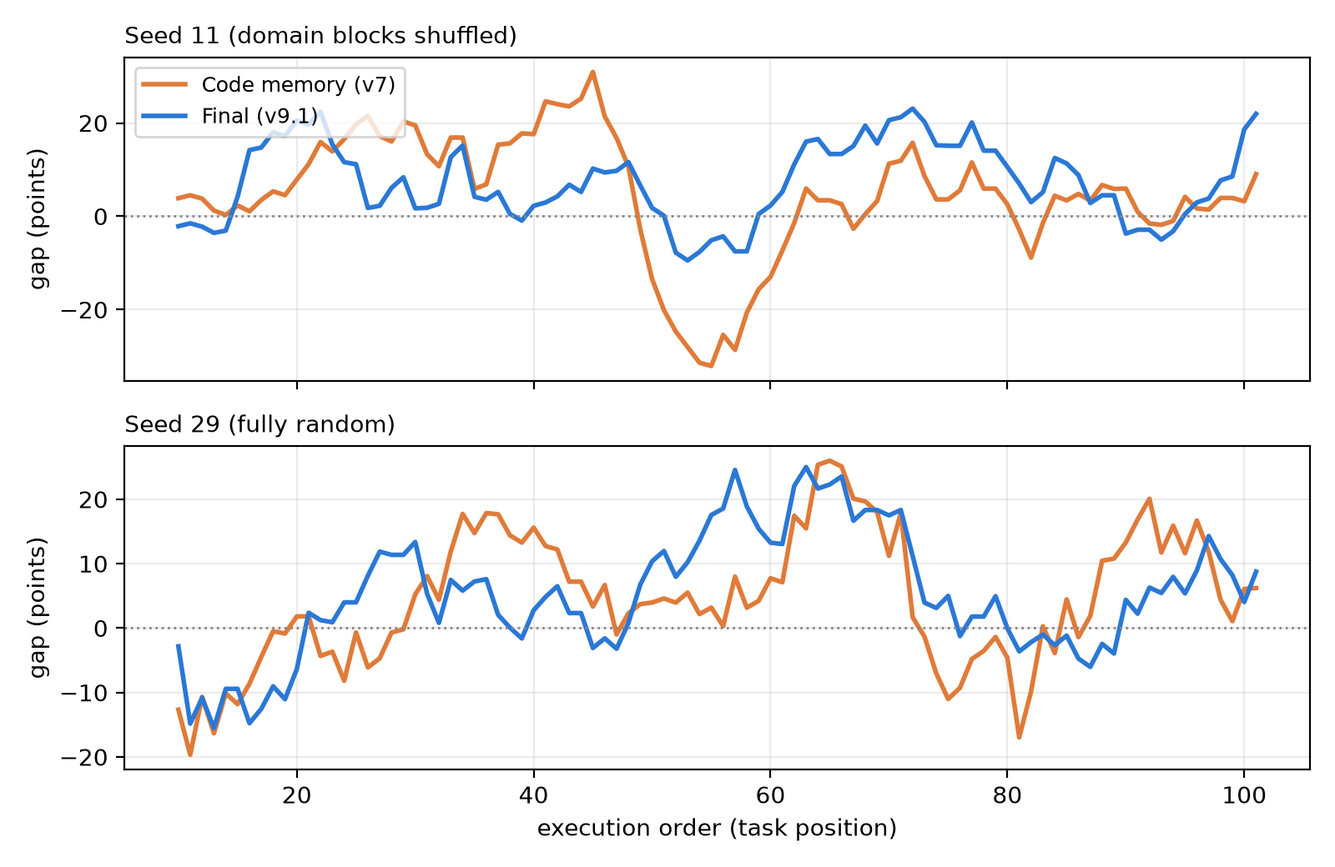
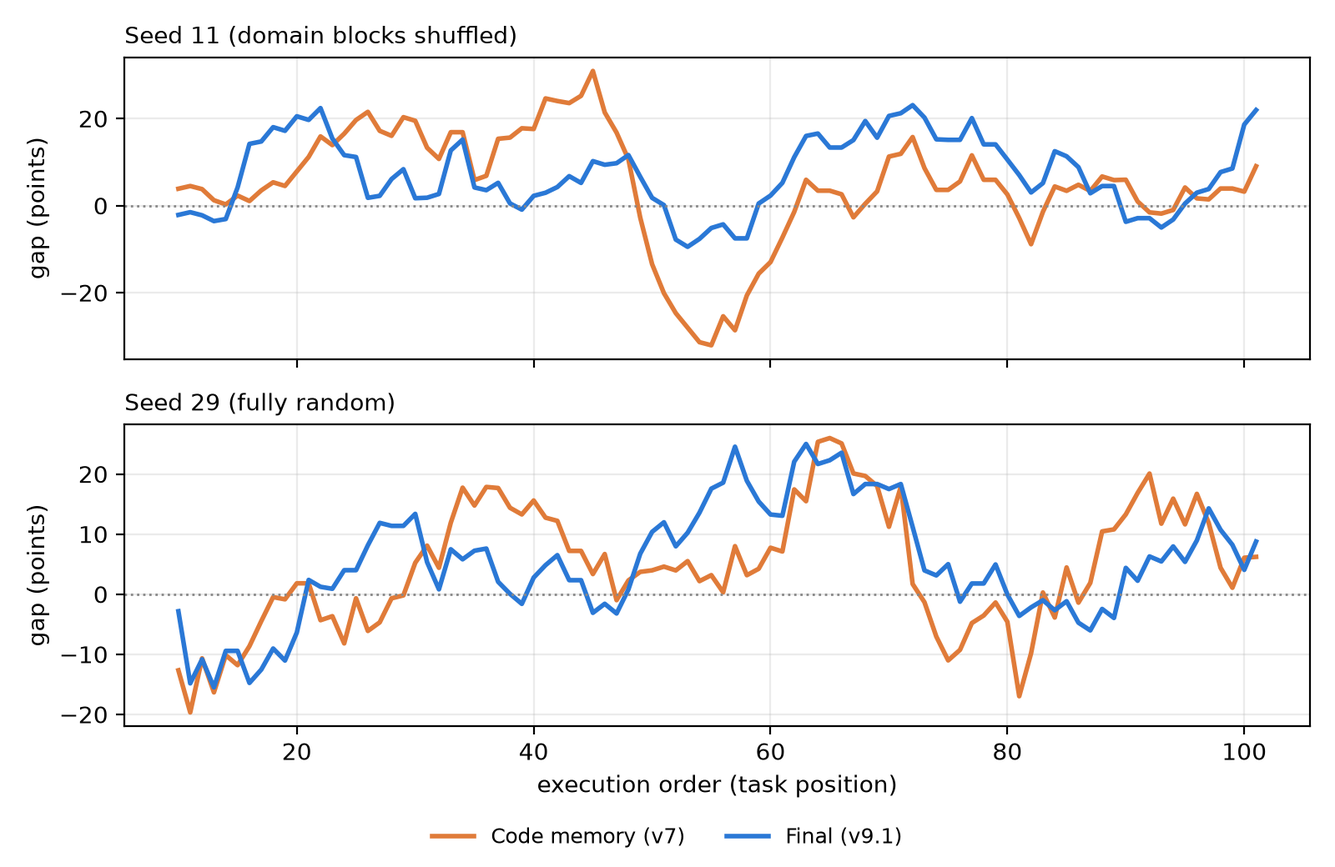
Thesis revision: problem formulation + algorithm, families figure moved to Ch3, 12 verified references with URLs, repo link, threats to validity, noise floor, shorter abstract, layout fixes

diff --git a/docs/thesis/sections/3-Setup.tex b/docs/thesis/sections/3-Setup.tex
@@ -28,18 +28,20 @@ We use all 101 WebGen-Bench tasks. They come from 20 application domains of uneq
 \label{sec:walkthrough}
 This section follows one task through the unmodified system, so that it is clear what the memory later changes. Task 000006 asks for a solar dashboard:
 
+\noindent\begin{minipage}{\linewidth}
 \begin{lstlisting}
 Please implement a solar dashboard to display real-time and historical solar
 data. The dashboard should have functionalities for real-time data display,
 historical data query, and chart analysis. [...] Configure the background color
 to honeydew, with components using dark olive green.
 \end{lstlisting}
+\end{minipage}
 
 \paragraph{Generation.} Under No Memory this text is the entire prompt. Bolt.diy is an open-source browser-based coding agent: it opens a starter project (for Vue, a Vite + Vue + TypeScript template whose \texttt{package.json} declares only \texttt{vue}), sends the requirement to the generator, and writes every file of the model's reply into the project. It then installs the dependencies and starts the development server. The generator has one reply; nothing in the official protocol inspects or repairs the code.
 
 \paragraph{Functional testing.} Each task comes with hidden test cases, on average six. For task 000006 the first two are ``Verify the display of real-time solar power generation data'' and ``Test the display of real-time power consumption data'', each with an expected result. A WebVoyager-style \gls{gui} agent~\cite{he2024webvoyager} receives one test case at a time. At each step it sees a screenshot in which every interactive element carries a numbered box (\Cref{fig:walkthrough}b), chooses an action such as clicking element 1 or typing into a field, and finally answers YES, PARTIAL or NO. The agent has a fixed step budget; if it runs out before reaching the target, the case counts as failed.
 
-\paragraph{Appearance grading.} A vision model grades a full-page screenshot from 1 to 5 for layout, colour and completeness.
+\paragraph{Appearance grading.} A vision model grades a full-page screenshot from 1 to 5 for layout, colour and completeness. Both the tester and the grader are models acting as judges, which are known to have biases~\cite{zheng2023judge}; we therefore keep their raw transcripts and, in \Cref{sec:threats}, check a sample of their verdicts by hand.
 
 \Cref{fig:walkthrough} shows what the tester saw for this task in two runs. Under No Memory the model imported the chart library \texttt{vue-chartjs}, which the template does not declare; Vite cannot resolve the import, the page shows only the error overlay, and all test cases fail. With the final memory the generator built the three requested views without the undeclared package, and all test cases passed.
 
@@ -58,7 +60,7 @@ to honeydew, with components using dark olive green.
 \end{figure}
 
 \section{Models and Roles}
-All models are self-hosted on the university CS ML cluster (two NVIDIA H200 GPUs per job, served with vLLM). No commercial \gls{llm} service is called. \Cref{tab:roles} lists the roles.
+All models are self-hosted on the university CS ML cluster (two NVIDIA H200 GPUs per job, served with vLLM~\cite{kwon2023vllm}). No commercial \gls{llm} service is called. \Cref{tab:roles} lists the roles.
 
 \begin{table}[ht]
 \centering
@@ -69,15 +71,15 @@ All models are self-hosted on the university CS ML cluster (two NVIDIA H200 GPUs
 Role & Model \\
 \midrule
 Generator & WebGen-LM-7B (BF16), Bolt.diy scaffold, single generation \\
-Functional tester & Qwen2.5-VL-32B-Instruct (WebVoyager-style \gls{gui} agent) \\
+Functional tester & Qwen2.5-VL-32B-Instruct~\cite{bai2025qwenvl} (WebVoyager-style \gls{gui} agent) \\
 Appearance grader & Qwen2.5-VL-32B-Instruct (paper: GPT-4o) \\
 Memory / reflection & Qwen2.5-VL-72B-Instruct-AWQ \\
-Embeddings & bge-m3 \\
+Embeddings & bge-m3~\cite{chen2024bgem3} \\
 \bottomrule
 \end{tabularx}
 \end{table}
 
-\paragraph{The generator.} WebGen-LM is a family of website-generation models (7B, 14B and 32B) released with WebGen-Bench~\cite{lu2025webgenbench}. Each is Qwen2.5-Coder-Instruct of the same size, fine-tuned with supervised learning only. The training data come from WebGen-Instruct, 6,667 website instructions decontaminated against the benchmark: the authors ran DeepSeek-V3 in Bolt.diy on 2,000 of them and kept the 600 trajectories whose websites scored at least 3 for appearance. WebGen-LM-7B therefore already knows the Bolt.diy output format, which makes it the natural small baseline for this benchmark: it is not a general model prompted to build websites, but a model distilled for exactly this scaffold.
+\paragraph{The generator.} WebGen-LM is a family of website-generation models (7B, 14B and 32B) released with WebGen-Bench~\cite{lu2025webgenbench}. Each is Qwen2.5-Coder-Instruct~\cite{hui2024qwencoder} of the same size, fine-tuned with supervised learning only. The training data come from WebGen-Instruct, 6,667 website instructions decontaminated against the benchmark: the authors ran DeepSeek-V3 in Bolt.diy on 2,000 of them and kept the 600 trajectories whose websites scored at least 3 for appearance. WebGen-LM-7B therefore already knows the Bolt.diy output format, which makes it the natural small baseline for this benchmark: it is not a general model prompted to build websites, but a model distilled for exactly this scaffold.
 
 The memory model is deliberately different from the evaluator, so that reflection cannot copy the evaluator's grading behaviour. vLLM applies the model repository's generation configuration by default; WebGen-LM-7B ships with a repetition penalty that Bolt.diy never sends, so we disable it for the generator to match the paper's setting.
 
@@ -86,18 +88,38 @@ For each task with $n$ test cases, of which $p$ pass and $q$ are partial,
 \begin{equation}
 \text{accuracy} = \frac{p + 0.5\,q}{n}.
 \end{equation}
-We report accuracy over all test cases, the mean appearance score (1--5), and the number of \emph{zero-score} tasks. Because test cases within a task are not independent, comparisons are paired by task rather than by test case.
+We report accuracy over all test cases, the mean appearance score (1--5), and the number of \emph{zero-score} tasks. Because test cases within a task are not independent, comparisons are paired by task rather than by test case: for two arms we report the mean per-task difference in accuracy with a 95\% percentile bootstrap \gls{ci} obtained by resampling tasks~\cite{efron1993bootstrap}, together with the numbers of tasks won, lost and tied.
 
 \section{Experimental Design}
 \label{sec:design}
+The memory designs we built fall into three families, shown in \Cref{fig:families} and described in \Cref{chap:method}. \emph{Text memory} (v1--v4) stores lessons written in natural language and adds them to the prompt; its last version, v4, adds the requirement checklist. \emph{Code memory} (v5--v7) keeps the checklist and adds a code pool of examples taken from the chain's own working websites. The \emph{final} family (v8--v9.1) changes only how the code pool selects and updates its examples. One version of each family was run on all 101 tasks, v4, v7 and v9.1, and in the rest of this dissertation the three names refer to these runs. Versions that were stopped part-way or never run on all tasks are described only in the design history (\Cref{sec:history}).
+
+\begin{figure}[ht]
+\centering
+\begin{tikzpicture}[node distance=5mm and 7mm, every node/.style={font=\small},
+  fam/.style={draw, rounded corners, align=center, text width=3.3cm, minimum height=16mm, inner sep=4pt},
+  base/.style={draw, rounded corners, align=center, text width=1.9cm, minimum height=16mm},
+  why/.style={font=\scriptsize\itshape, align=center, text width=2.2cm}, >=stealth]
+\node[base] (nm) {No Memory\\28.5\%};
+\node[fam, right=14mm of nm] (txt) {\textbf{Text memory}\\v1--v4\\lessons as text\\+ checklist (v4)\\30.9\%};
+\node[fam, draw=orange!80!black, right=14mm of txt] (code) {\textbf{Code memory}\\v5--v7\\+ code pool of\\verified fragments\\40.0\%};
+\node[fam, draw=blue!70!black, right=14mm of code] (fin) {\textbf{Final}\\v8--v9.1\\safer fragments,\\versioned entries\\\todo{v9.1}};
+\draw[->] (nm) -- (txt);
+\draw[->] (txt) -- node[why, above=1mm]{text not\\followed} (code);
+\draw[->] (code) -- node[why, above=1mm]{whole-file\\example\\$\rightarrow$ scaffold} (fin);
+\end{tikzpicture}
+\caption{The three families of memory. Each arrow names the failure that led to the next family. Accuracy is on the manifest order (101 tasks, one run).}
+\label{fig:families}
+\end{figure}
+
 \Cref{tab:design} lists every arm, the task orders in which it was run and the question it answers. All arms use WebGen-LM-7B with Bolt.diy under the official protocol, cover all 101 tasks and start from an empty memory; each arm is run once per order. The task orders are defined in \Cref{sec:order-design}.
 
 \begin{table}[ht]
 \centering
-\caption{Experimental design. Memory content is what is added to the generator's prompt; version numbers refer to the design history in \Cref{sec:history}.}
+\caption{Experimental design. Memory content is what is added to the generator's prompt; the families are those of \Cref{fig:families}.}
 \label{tab:design}
 \small
-\begin{tabularx}{\textwidth}{>{\raggedright}>{\raggedright\arraybackslash}p{2.9cm}>{\raggedright}X>{\raggedright}>{\raggedright\arraybackslash}p{2.6cm}>{\raggedright\arraybackslash}X}
+\begin{tabularx}{\textwidth}{>{\raggedright\arraybackslash}p{2.9cm}X>{\raggedright\arraybackslash}p{2.6cm}>{\raggedright\arraybackslash}X}
 \toprule
 Arm & Memory content & Task orders & Question \\
 \midrule
@@ -138,6 +160,6 @@ GPU 1 & Qwen2.5-VL-72B-Instruct-AWQ (memory) & 113 \\
 \end{tabular}
 \end{table}
 
-\paragraph{Code and data availability.} The code, configuration files and the archived run records (prompts, injected memory, scores and memory databases of every run) are kept in a private repository and are available from the author on request; they will be made public after examination.
+\paragraph{Code and data availability.} The code, configuration files and the archived run records (prompts, injected memory, scores and memory databases of every run) are publicly available at \url{https://github.com/qiaopan/WebGen-Bench}; the run records are in \texttt{archive/phase2-webgen-2026-10/}.
 
 The main constraint is compute. A task takes about twelve minutes with memory and six without, so one 101-task run takes about a day on our two GPUs. As in the original benchmark, each configuration is therefore run once per task order. We compensate by pairing comparisons by task, by repeating the No Memory baseline in three orders to measure its run-to-run variation, and by repeating the memory method across orders rather than within one.

diff --git a/docs/thesis/sections/2-Background.tex b/docs/thesis/sections/2-Background.tex
@@ -5,9 +5,9 @@ This chapter places the work in four bodies of literature. \Cref{sec:bg-webgen} 
 
 \section{Website Generation Benchmarks}
 \label{sec:bg-webgen}
-Code-generation benchmarks have moved from single functions towards whole applications. A website is a demanding target: it combines several files, a build configuration, a user interface and interaction logic, and a request in natural language usually lists several pages and features at once. Evaluating such output by reading the code is unreliable, because a project can look complete and still fail to start, or start and render a blank page. Recent benchmarks therefore start the generated project and test it through its interface.
+Code-generation benchmarks have moved from single functions towards whole applications. A website is a demanding target: it combines several files, a build configuration, a user interface and interaction logic, and a request in natural language usually lists several pages and features at once. Evaluating such output by reading the code is unreliable, because a project can look complete and still fail to start, or start and render a blank page. Recent benchmarks therefore start the generated project and test it through its interface. Related benchmarks test agents that operate existing websites, such as Mind2Web and WebArena~\cite{deng2023mind2web,zhou2024webarena}, generate a single page from a screenshot and compare it visually, as in Design2Code~\cite{si2024design2code}, or change a code repository and run its tests, as in SWE-bench~\cite{jimenez2024swebench}.
 
-WebGen-Bench~\cite{lu2025webgenbench} contains 101 website requirements from 20 application domains, each paired with a set of functional test cases (647 in total). A generated project is installed and started, and a \gls{gui} agent based on WebVoyager~\cite{he2024webvoyager} executes each test case and returns \emph{Pass}, \emph{Partial} or \emph{Fail}. A separate \gls{vlm} grades the appearance of the landing page from 1 to 5. The authors also release WebGen-LM, generators fine-tuned on agent trajectories; with the Bolt.diy scaffold, WebGen-LM-7B reaches 28.4\% accuracy and an appearance score of 2.5. Larger general models such as Qwen2.5-Coder-32B score lower (9.5\%), which makes the 7B model a good subject: it is neither at the floor nor at the ceiling of the benchmark.
+WebGen-Bench~\cite{lu2025webgenbench} contains 101 website requirements from 20 application domains, each paired with a set of functional test cases (647 in total). A generated project is installed and started, and a \gls{gui} agent based on WebVoyager~\cite{he2024webvoyager} executes each test case and returns \emph{Pass}, \emph{Partial} or \emph{Fail}. A separate \gls{vlm} grades the appearance of the landing page from 1 to 5. The authors also release WebGen-LM, generators fine-tuned from Qwen2.5-Coder~\cite{hui2024qwencoder} on agent trajectories; with the Bolt.diy scaffold, WebGen-LM-7B reaches 28.4\% accuracy and an appearance score of 2.5. Larger general models such as Qwen2.5-Coder-32B score lower (9.5\%), which makes the 7B model a good subject: it is neither at the floor nor at the ceiling of the benchmark.
 
 WebGen-Bench evaluates generators inside agent scaffolds rather than as bare models. In the Bolt.diy scaffold used here, the model writes the project as a sequence of file actions in its reply, the scaffold applies them to a template project, installs dependencies and starts a development server. The official protocol gives the generator a single attempt: there is no build check and no repair loop, and a project that does not start receives zero for all of its test cases. This is important for our study, because it means memory cannot help by fixing errors after they happen; it can only change what the generator writes in the first place.
 
@@ -19,7 +19,7 @@ WebGen-Bench is a static benchmark. It does not define any interaction between t
 \label{sec:bg-memory}
 An agent memory has three parts: what is written after a task (raw trajectories, insights, procedures or code), how it is maintained (added, merged, updated or forgotten), and how it is retrieved and presented to the model for a new task. Most work varies the first two and assumes the consuming model can use whatever is retrieved. The paragraphs below follow the same division and end with the question that matters most here: which form of memory transfers to a new task.
 
-\paragraph{Experience and insight memory.} ExpeL~\cite{zhao2024expel} lets an agent collect trajectories, extract natural-language insights, and maintain them with add, edit, upvote and downvote operations. ReasoningBank~\cite{reasoningbank2025} distils reusable reasoning strategies from both successful and failed trajectories. Generative Agents~\cite{park2023generative} rank memories by recency, importance and relevance.
+\paragraph{Experience and insight memory.} ExpeL~\cite{zhao2024expel} lets an agent collect trajectories, extract natural-language insights, and maintain them with add, edit, upvote and downvote operations. ReasoningBank~\cite{reasoningbank2025} distils reusable reasoning strategies from both successful and failed trajectories. Generative Agents~\cite{park2023generative} rank memories by recency, importance and relevance. Reflexion~\cite{shinn2023reflexion} stores verbal self-reflections after a failed attempt, but reuses them on retries of the same task rather than on new tasks.
 
 \paragraph{Skill and code memory.} Voyager~\cite{wang2023voyager} stores executable skills as code with a description and retrieves them by description. Agent Workflow Memory~\cite{wang2025awm} stores reusable workflows. Metis~\cite{dai2026metis} combines textual memory with code tools: plans that recur are promoted to validated, callable tools that the agent executes. Its controlled study with a GPT-4o executor is directly relevant to this work: when memory is built only from earlier tasks (streaming), code memory falls to 53.3\% task completion while text memory reaches 73.3\%, and the authors describe code as efficient but brittle under task variation. Our code memory is of a different kind: fragments placed in the prompt for the generator to imitate, not tools that are executed.
 
@@ -29,7 +29,7 @@ An agent memory has three parts: what is written after a task (raw trajectories,
 
 \paragraph{Cross-task reuse on WebGen-Bench.} Super Library Agent~\cite{sung2026superlibrary} also generates WebGen-Bench applications in sequence, maintaining a shared library of reusable components. Its goal is maintainability without loss of functionality: on 24 tasks in three suites drawn from single topical clusters, with a strong backbone, accuracy changes from 76.04\% to 77.21\%, a difference that is not statistically significant, while code size and token use fall. It does not store lessons from failures and does not vary task order; the authors note that single-topic suites are a favourable setting for reuse. We study memory of failures and successes for correctness, with a small generator, on all 101 tasks under the official protocol, and treat task order as a variable.
 
-\paragraph{Memory maintenance.} Mem0~\cite{chhikara2025mem0} decides at write time whether a new memory should be added, should update an old one, or is redundant. Memento~\cite{zhou2025memento} learns the utility of stored cases from their outcomes. Our hygiene component borrows these ideas: deduplication at storage time and a utility score for each memory.
+\paragraph{Memory maintenance.} Mem0~\cite{chhikara2025mem0} decides at write time whether a new memory should be added, should update an old one, or is redundant. Memento~\cite{zhou2025memento} learns the utility of stored cases from their outcomes. MemGPT~\cite{packer2023memgpt} manages several tiers of memory for long interactions. Our hygiene component borrows these ideas: deduplication at storage time and a utility score for each memory.
 
 \paragraph{Task order in continual agent evaluation.} Benchmarks for agents that learn across tasks report that the order and composition of the task stream affect results. Evo-Memory~\cite{wei2025evomemory} finds that baselines vary substantially between easy-to-hard and hard-to-easy sequences, and AgentCL~\cite{shu2026agentcl} shows that memory methods can only be distinguished on streams that expose opportunities for reuse. We therefore compare orders in which tasks of the same domain are adjacent with orders in which they are mixed (\Cref{sec:order-design}).
 

diff --git a/docs/thesis/sections/4-Method.tex b/docs/thesis/sections/4-Method.tex
@@ -1,6 +1,31 @@
 \chapter{Method}
 \label{chap:method}
 
+\section{Problem Formulation}
+\label{sec:formulation}
+A run processes the tasks $t_1,\dots,t_n$ ($n=101$) in a fixed order. Task $t_i$ has a requirement $r_i$ and hidden test cases $c_{i,1},\dots,c_{i,m_i}$. A generator $G$ with fixed weights maps a prompt $x_i$ to a project $y_i=G(x_i)$, which the evaluator $E$ scores as $a_i=E(y_i, c_{i,\cdot})\in[0,1]$ with the accuracy defined in \Cref{chap:setup}. Under No Memory, $x_i=r_i$. With memory, the prompt is
+\begin{equation}
+x_i = r_i \oplus f(r_i, M_{i-1}), \qquad M_i = u\bigl(M_{i-1}, r_i, y_i, \tau_i, a_i\bigr),
+\end{equation}
+where $M_0=\emptyset$, $f$ selects and formats memory for the current requirement, $\oplus$ appends text after the requirement, $\tau_i$ is the evaluator transcript, and $u$ reflects on the finished task and updates the memory. Two constraints make the comparison fair: $f$ only reads $M_{i-1}$, which is built from earlier tasks, so the hidden evaluation of $t_i$ never reaches its own prompt; and $G$, $E$ and the protocol are identical across arms. The question is whether the mean of $a_i$ is higher with memory than with $x_i=r_i$, and which design of $f$ and $u$ achieves it. \Cref{alg:pipeline} gives the final design.
+
+\begin{algorithm}[ht]
+\caption{Cross-task memory for one run (final version).}
+\label{alg:pipeline}
+\begin{algorithmic}[1]
+\State $M \gets \emptyset$
+\For{$i = 1,\dots,n$}
+  \State $L \gets \textsc{Checklist}(r_i)$ \Comment{memory model splits the requirement}
+  \State attach to $L$ the lessons in $M$ judged to apply to $r_i$
+  \State $P \gets$ up to three code-pool fragments whose trigger holds
+  \State $x_i \gets r_i \oplus L \oplus P$; \quad $y_i \gets G(x_i)$; \quad $a_i \gets E(y_i)$
+  \State reflect on $(y_i,\tau_i,a_i)$; add new lessons to $M$ after deduplication
+  \State record code facts of $y_i$; create or version code-pool entries from earlier sites with $a \ge 0.5$
+\EndFor
+\end{algorithmic}
+\end{algorithm}
+
+
 \section{Starting Point: Why No Memory Fails}
 \label{sec:nm-failures}
 We began by inspecting the code that No Memory actually produced, rather than its scores. Two findings shaped everything that followed.
@@ -11,27 +36,9 @@ We began by inspecting the code that No Memory actually produced, rather than it
 
 \section{Design History}
 \label{sec:history}
-The design went through three families of memory, shown in \Cref{fig:families}. \emph{Text memory} (v1--v4) stores lessons written in natural language and adds them to the prompt; its last version, v4, adds the requirement checklist. \emph{Code memory} (v5--v7) keeps the checklist and adds a code pool of examples taken from the chain's own working websites. The \emph{final} family (v8--v9.1) changes only how the code pool selects and updates its examples. One version of each family was run on all 101 tasks, v4, v7 and v9.1, and in the rest of this dissertation the three names refer to these runs.
+The three families of \Cref{fig:families} were reached through the attempts listed in \Cref{tab:history}. \Cref{tab:design} in \Cref{chap:setup} lists what was run in the final experiments; the table below lists how the design got there, so the two tables describe different things: the arms compared, and the history of the method.
 
-\begin{figure}[ht]
-\centering
-\begin{tikzpicture}[node distance=5mm and 7mm, every node/.style={font=\small},
-  fam/.style={draw, rounded corners, align=center, text width=3.3cm, minimum height=16mm, inner sep=4pt},
-  base/.style={draw, rounded corners, align=center, text width=1.9cm, minimum height=16mm},
-  why/.style={font=\scriptsize\itshape, align=center, text width=2.2cm}, >=stealth]
-\node[base] (nm) {No Memory\\28.5\%};
-\node[fam, right=14mm of nm] (txt) {\textbf{Text memory}\\v1--v4\\lessons as text\\+ checklist (v4)\\30.9\%};
-\node[fam, draw=orange!80!black, right=14mm of txt] (code) {\textbf{Code memory}\\v5--v7\\+ code pool of\\verified fragments\\40.0\%};
-\node[fam, draw=blue!70!black, right=14mm of code] (fin) {\textbf{Final}\\v8--v9.1\\safer fragments,\\versioned entries\\\todo{v9.1}};
-\draw[->] (nm) -- (txt);
-\draw[->] (txt) -- node[why, above=1mm]{text not\\followed} (code);
-\draw[->] (code) -- node[why, above=1mm]{whole-file\\example\\$\rightarrow$ scaffold} (fin);
-\end{tikzpicture}
-\caption{The three families of memory. Each arrow names the failure that led to the next family. Accuracy is on the manifest order (101 tasks, one run).}
-\label{fig:families}
-\end{figure}
-
-\Cref{tab:history} lists every attempt within the families. Each version was motivated by an error analysis of the previous one. Versions are numbered in the order they were built, and every number appears in \Cref{tab:history}: v1 and v2 used the early text-memory design of the first three rows, v5 was a local prototype of the code pool that was never run on all tasks, and v8 and v9 were stopped part-way. Only v4, v7 and v9.1 were run on all 101 tasks; in the rest of this dissertation they are called \emph{text memory}, \emph{code memory} and the \emph{final} version.
+Each version was motivated by an error analysis of the previous one. Versions are numbered in the order they were built, and every number appears in \Cref{tab:history}: v1 and v2 used the early text-memory design of the first three rows, v5 was a local prototype of the code pool that was never run on all tasks, and v8 and v9 were stopped part-way. Only v4, v7 and v9.1 were run on all 101 tasks; in the rest of this dissertation they are called \emph{text memory}, \emph{code memory} and the \emph{final} version.
 
 \begin{table}[ht]
 \centering

diff --git a/docs/thesis/sections/6-Discussion.tex b/docs/thesis/sections/6-Discussion.tex
@@ -9,6 +9,7 @@ This contrasts with findings for strong models. With a GPT-4o executor, Metis fi
 A second observation is that part of the gain is not ``smarter'' code but protection against collapse. In the earliest phase, short prompts made the model return the default scaffold in five of eight tasks, while longer, specific prompts did not. Both effects are real benefits of memory, but they should be described separately.
 
 \section{Limitations and Threats to Validity}
+\label{sec:threats}
 \begin{itemize}
   \item \textbf{Single runs.} WebGen-Bench itself reports single runs without error bars. We go further by repeating No Memory five times to measure run-to-run noise and by repeating Long Memory under four additional orders with paired comparisons, but within each order Long Memory is still a single run, so per-task conclusions remain weak.
   \item \textbf{One generator and one scaffold.} All results are for WebGen-LM-7B with Bolt.diy and a Vue template. Larger generators may follow text well and benefit less from code fragments.
@@ -17,9 +18,9 @@ A second observation is that part of the gain is not ``smarter'' code but protec
   \item \textbf{Code pool as a learned prefix.} Because its triggers are general, the code pool behaves partly like a fixed prompt prefix; the fixed-prefix ablation (\Cref{sec:ablation}) measures how much of the gain this explains.
   \item \textbf{Rare problems are learned late.} A code memory needs a problem to recur before it exists, so learning pays off mainly for frequent problems. In v7 the \texttt{vue-router} and \texttt{v-model} problems each occurred in only two seed-11 tasks, and with two slots the \texttt{v-model} memory was never injected although later tasks failed with that error. v9.1 creates memories for whole-site failures after one occurrence and allows three slots, but a problem seen once can still cost one task, and with other generators more problem types would compete for the slots.
   \item \textbf{Appearance grader.} We grade appearance with Qwen2.5-VL-32B instead of GPT-4o, so appearance scores are compared only between our arms. On tasks where both arms produce a working site, appearance is unchanged (3.25 vs 3.22), so our gains are functional only.
-  \item \textbf{Iterative development on the same benchmark.} The pipeline was designed while observing results on WebGen-Bench tasks. Reflection rules describe methods rather than answers, memory uses only earlier tasks, and the final runs start from an empty memory, but some overfitting of design choices to this benchmark cannot be excluded.
-  \item \textbf{Evaluator noise.} \gls{gui} testers can exhaust their interaction budget or misjudge pages. We keep raw evaluator transcripts and distinguish interaction-budget exhaustion from logic failures.
-  \item \textbf{Memory model stronger than generator.} The 72B memory model is larger than the 7B generator; the results show what a small generator can gain with a stronger teacher, not self-improvement in isolation.
+  \item \textbf{Iterative development on the same benchmark.} This is the most serious threat. Every version was designed after looking at failures on the same 101 tasks on which it is evaluated, so the design is in effect tuned on the test set. Four facts limit, but do not remove, the risk. Reflection rules teach a method of investigation and never a task-specific answer; memory content is learned from earlier tasks only and every run starts empty; the split into the first 30 and the last 71 tasks was fixed before v7 was run; and the final version was confirmed on two shuffled orders that it had not been developed on. A clean estimate would freeze the method on a development subset and report it once on held-out tasks; we leave this to future work (\Cref{chap:conclusion}).
+  \item \textbf{Evaluator noise.} \gls{gui} testers can exhaust their interaction budget or misjudge pages~\cite{zheng2023judge}. We keep raw evaluator transcripts and distinguish interaction-budget exhaustion from logic failures. \todo{After a manual check of 20 sampled test cases (stratified by Yes/Partial/No and by arm), report the agreement between the tester and a human reader here.}
+  \item \textbf{Memory model stronger than generator.} The 72B memory model is larger than the 7B generator, so part of the gain could be the larger model solving the task for the small one. Three observations argue against this reading. The checklist only restates the requirement, and on its own it gives no significant gain (\Cref{tab:ablation}). Every code fragment is copied verbatim from a website that the 7B generator itself built earlier, and code checks reject lines that are not in that file. And the memory model never sees the current task's evaluation. The results therefore show what a small generator gains when a stronger model organises its own past experience, not self-improvement in isolation. \todo{After the fixed-prefix run, state how much of the gain remains without learning.}
 \end{itemize}
 
 \section{Ethical Considerations and Impact}

diff --git a/docs/thesis/dissertation.tex b/docs/thesis/dissertation.tex
@@ -15,6 +15,8 @@
 \usepackage{subcaption}
 \usepackage[inline]{enumitem}
 \usepackage[table,usenames,dvipsnames]{xcolor}
+\usepackage{algorithm}
+\usepackage{algpseudocode}
 \usepackage{tikz}
 \usetikzlibrary{positioning}
 \usepackage{cleveref}
@@ -70,13 +72,13 @@
 
 \frontmatter
 \begin{abstract}
-Large language model (LLM) agents that generate websites solve every task from scratch: what went wrong on one website is forgotten before the next one starts. This dissertation asks whether a \emph{small} generator, the 7-billion-parameter WebGen-LM-7B, can improve across a sequence of WebGen-Bench tasks if it is given a long-term memory built from its own earlier attempts, without changing its weights or the official evaluation protocol.
+Agents that generate websites with large language models solve every task from scratch: what went wrong on one website is forgotten before the next one starts. This dissertation asks whether a \emph{small} generator, WebGen-LM-7B, can improve across a sequence of WebGen-Bench tasks when it is given a long-term memory built from its own earlier attempts, without changing its weights or the official evaluation protocol.
 
-We first reproduce the official No Memory baseline on a self-hosted cluster (28.5\% accuracy on 101 tasks versus 28.4\% reported). An analysis of its failures shows that most zero-score tasks are not hard tasks but blank pages caused by basic code errors, such as importing a package that is not installed, and that the model rarely follows advice written as text. A first text-based memory therefore helps early in the sequence but falls behind No Memory later, as generic advice accumulates in the prompt.
+We first reproduce the official No Memory baseline on a self-hosted cluster (28.5\% accuracy on 101 tasks versus 28.4\% reported). Its failures show that many zero-score tasks are blank pages caused by basic code errors, such as importing a package that is not installed, and that the model rarely follows advice written as text. A text-based memory therefore helps early in the sequence but falls behind No Memory later, as generic advice accumulates.
 
-Code memory keeps a requirement checklist that lists every requested feature and adds a code pool: once a code error recurs, the prompt carries a short verified code fragment taken from the chain's own successful websites. In a single run over all 101 tasks it reaches 40.0\% accuracy against 28.5\% for No Memory (mean paired gain 11.5 points, 95\% CI 6.0--16.9) and reduces zero-score tasks from 30 to 13. An ablation attributes most of the gain to the memory rather than to the checklist (+8.1 points, CI 2.9--13.2). Under shuffled task orders, however, a whole-file example in the code pool made the generator return the untouched starter project. The final version (v9.1) shows only verified lines of such files; it removes these blank sites in both shuffled orders and keeps a gain of 7.4 and 5.5 points over No Memory. \todo{Add v9.1 on the manifest order.} Gains are functional: appearance on sites that work is unchanged.
+Code memory adds a requirement checklist and a code pool: once a code error recurs, the prompt carries a short verified fragment from the chain's own successful websites. In a single run over all 101 tasks it reaches 40.0\% against 28.5\% (paired gain 11.5 points, 95\% CI 6.0--16.9) and cuts zero-score tasks from 30 to 13; an ablation attributes most of the gain to memory rather than to the checklist. Under shuffled task orders, a whole-file example made the generator return the untouched starter project. The final version (v9.1) shows only verified lines of such files; it removes these failures in both shuffled orders and keeps gains of 7.4 and 5.5 points. \todo{Add v9.1 on the manifest order.} Gains are functional; appearance on working sites is unchanged.
 
-The main lesson is that, for a small generator, \emph{what form} a memory takes matters more than how much is remembered: verified code fragments transfer where textual lessons do not. We discuss the limits of these single-run results, the cost of the evaluation, and the ethical considerations of self-improving code agents.
+The main lesson is that, for a small generator, the \emph{form} of memory matters more than its amount: verified code fragments transfer where textual lessons do not. We discuss the limits of these single-run results and the ethical considerations of self-improving code agents.
 \end{abstract}
 
 \begin{acknowledgements}
@@ -116,7 +118,7 @@ October, 2026
 \include{sections/7-Conclusion}
 
 \backmatter
-\bibliographystyle{plain}
+\bibliographystyle{plainurl}
 \bibliography{bibliography}
 
 \end{document}

diff --git a/docs/thesis/sections/5-Results.tex b/docs/thesis/sections/5-Results.tex
@@ -30,7 +30,7 @@ Final, verified fragments (v9.1) & \multicolumn{8}{c}{\todo{running}} \\
 \end{adjustbox}
 \end{table}
 
-Code memory (v7) raises the share of passed test cases from 23.8\% to 34.5\% and halves the number of zero-score tasks; per task it beats No Memory on 54 tasks, loses on 24 and ties on 23. The gain over text memory is $+8.9$ points ($[2.9, 15.1]$; 53 wins, 29 losses, 19 ties). Neither text memory nor the checklist alone gives a significant gain. Appearance rises only because more sites work: on the 68 tasks where both No Memory and v7 produced a graded site, the means are 3.25 and 3.22.
+Code memory (v7) raises the share of passed test cases from 23.8\% to 34.5\% and halves the number of zero-score tasks; per task it beats No Memory on 54 tasks, loses on 24 and ties on 23. The gain over text memory is $+8.9$ points ($[2.9, 15.1]$; 53 wins, 29 losses, 19 ties). Neither text memory nor the checklist alone gives a significant gain. For scale, No Memory itself reaches 28.5\%, 27.9\% and 28.6\% in three independent runs under different orders (\Cref{sec:order-design}); its run-to-run spread of 0.7 points is far smaller than the 11.5-point gain of code memory. Appearance rises only because more sites work: on the 68 tasks where both No Memory and v7 produced a graded site, the means are 3.25 and 3.22.
 
 \section{Learning Curve}
 \Cref{fig:curve} plots cumulative and rolling accuracy in execution order. v4 and v7 are similar on the first 30 tasks (39.3\% and 39.0\%, versus 26.0\% for No Memory), when the code pool has few active entries. On the remaining 71 tasks v4 falls below No Memory (27.8\% vs 29.5\%, 19 zero-score tasks each), while v7 keeps its level (40.4\%, 9 zero-score tasks). On the last 35 tasks the gap is 38.3\% (v7) vs 26.0\% (No Memory) vs 23.2\% (v4).

diff --git a/scripts/plot_order_gaps.py b/scripts/plot_order_gaps.py
@@ -29,6 +29,7 @@ for ax, spec in zip(axes[:, 0], panels):
         ax.plot(range(10, len(g) + 1), roll, color=colors.get(label, None), lw=2, label=label)
     ax.axhline(0, color="#888", lw=1, ls=":"); ax.set_title(name, fontsize=10, loc="left")
     ax.set_ylabel("gap (points)"); ax.grid(alpha=.25)
-axes[0, 0].legend(fontsize=9, loc="upper left")
+h, l = axes[0, 0].get_legend_handles_labels()
+fig.legend(h, l, fontsize=9, loc="lower center", ncol=len(l), frameon=False)
 axes[-1, 0].set_xlabel("execution order (task position)")
-fig.tight_layout(); fig.savefig(out, dpi=200)
+fig.tight_layout(rect=(0, 0.05, 1, 1)); fig.savefig(out, dpi=200)
